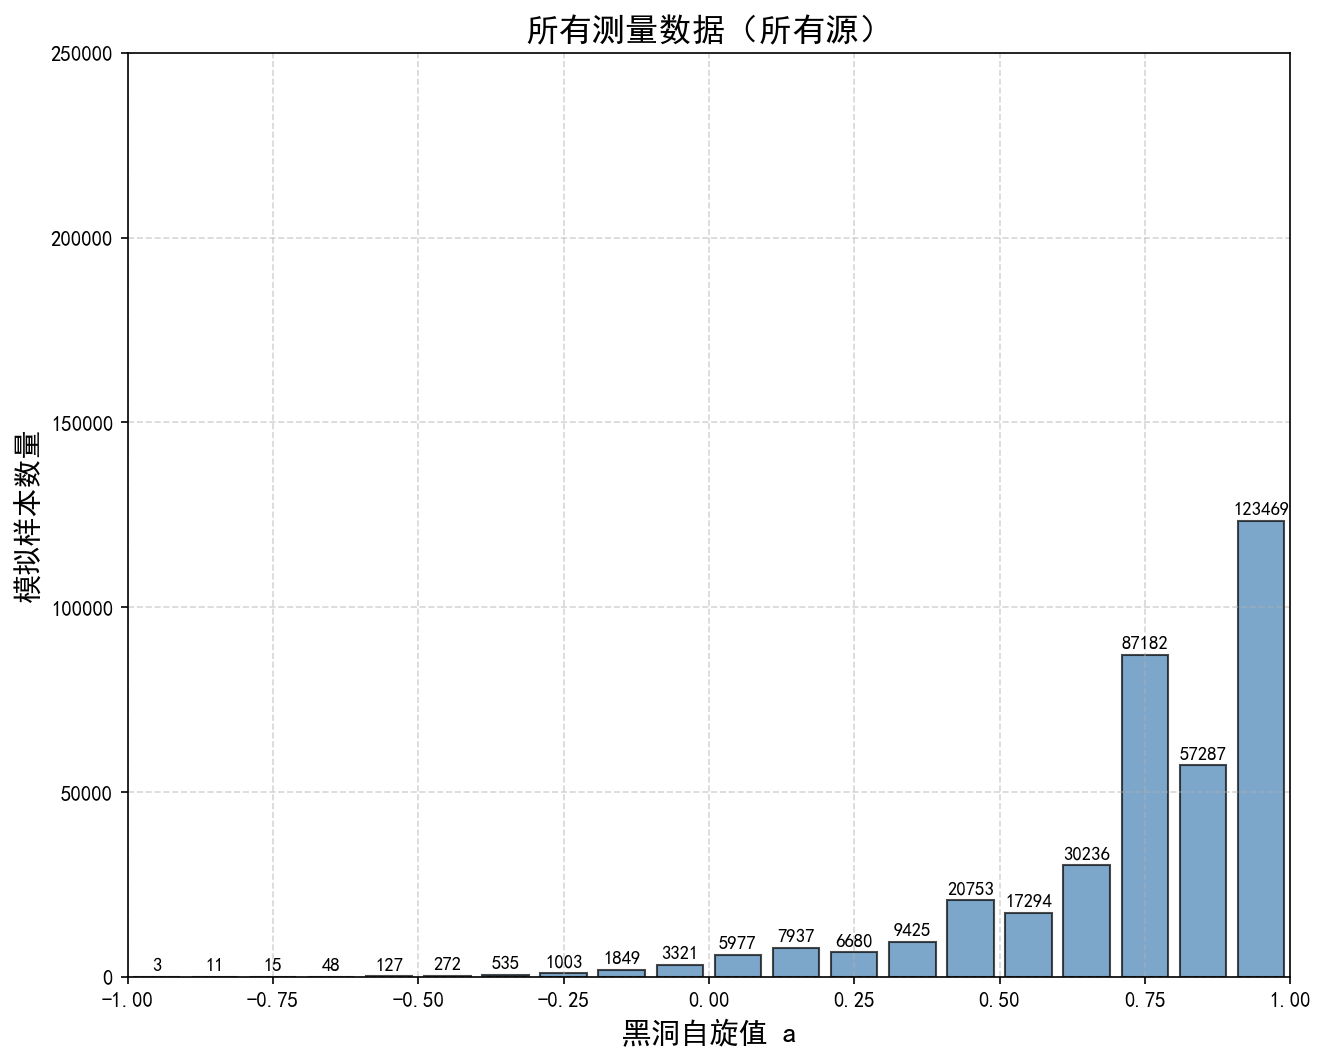
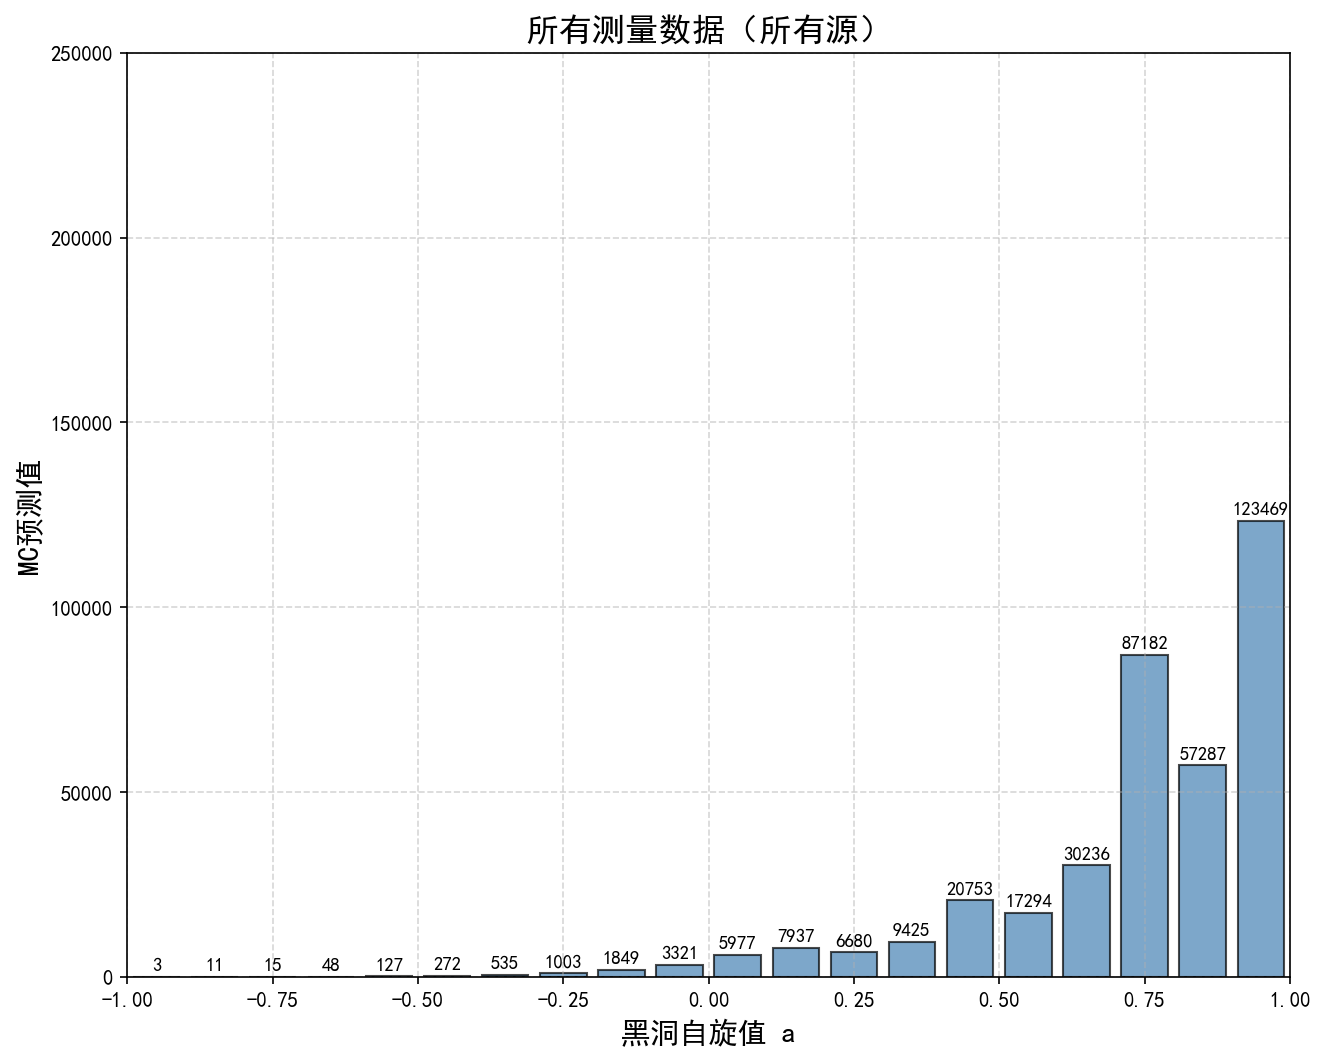
Task 3 修改y轴名称

diff --git a/任务三 蒙特卡洛模拟/scripts/source_info_table.py b/任务三 蒙特卡洛模拟/scripts/source_info_table.py
@@ -1,0 +1,148 @@
+"""
+黑洞源信息汇总表 - 最终版
+功能：读取数据表格，生成每个源在不同模型下的自旋值汇总表
+"""
+
+import pandas as pd
+import matplotlib.pyplot as plt
+from pathlib import Path
+
+# ==================== 设置中文字体 ====================
+plt.rcParams['font.sans-serif'] = ['SimHei', 'Microsoft YaHei', 'DejaVu Sans']
+plt.rcParams['axes.unicode_minus'] = False
+
+# ==================== 路径设置 ====================
+SCRIPT_DIR = Path(__file__).parent
+PROJECT_ROOT = SCRIPT_DIR.parent.parent
+DATA_PATH = PROJECT_ROOT / 'data' / '数据收集 表3 蒙特卡洛模拟用.xlsx'
+OUTPUT_DIR = SCRIPT_DIR.parent / 'output'
+
+print(f"数据文件路径: {DATA_PATH}")
+print(f"数据文件存在: {DATA_PATH.exists()}")
+print(f"输出目录: {OUTPUT_DIR}\n")
+
+# ==================== 读取数据 ====================
+df = pd.read_excel(DATA_PATH, sheet_name='Sheet1', usecols='B:I')
+df.columns = ['源', '文献来源', '自旋值i', '自旋值i-', '自旋值i+', '置信度_sigma', '拟合模型', '爆发时间']
+df = df.dropna(subset=['自旋值i'])
+
+print(f"成功读取数据，共 {len(df)} 条记录")
+
+# ==================== 格式化自旋值字符串 ====================
+def format_spin_value(row):
+    spin = row['自旋值i']
+    err_minus = row['自旋值i-']
+    err_plus = row['自旋值i+']
+    
+    if abs(spin) < 0.1:
+        decimal_places = 4
+    elif abs(spin) < 1:
+        decimal_places = 3
+    else:
+        decimal_places = 2
+    
+    spin_str = f"{spin:.{decimal_places}f}"
+    err_plus_str = f"{err_plus:.{decimal_places}f}"
+    err_minus_str = f"{err_minus:.{decimal_places}f}"
+    
+    return f"{spin_str} (+{err_plus_str}) (-{err_minus_str})"
+
+df['formatted_spin'] = df.apply(format_spin_value, axis=1)
+
+# ==================== 按源和模型汇总 ====================
+sources = sorted(df['源'].unique())
+models = ['reflection', 'continuum-fitting']
+model_names = {'reflection': 'Reflection 模型', 'continuum-fitting': 'Continuum-fitting 模型'}
+
+# 构建表格数据
+table_data = []
+row_heights = []
+
+for src in sources:
+    src_df = df[df['源'] == src]
+    
+    for model in models:
+        model_df = src_df[src_df['拟合模型'] == model]
+        if len(model_df) > 0:
+            spin_values = '\n'.join(model_df['formatted_spin'].tolist())
+            line_count = len(model_df['formatted_spin'].tolist())
+        else:
+            spin_values = '-'
+            line_count = 1
+        
+        table_data.append([src, model_names[model], spin_values])
+        # 行高：基础0.4 + 每多一行增加0.25
+        row_heights.append(0.4 + (line_count - 1) * 0.25)
+
+# ==================== 计算总高度 ====================
+total_height = sum(row_heights) + 0.8
+
+# ==================== 创建图形 ====================
+fig, ax = plt.subplots(figsize=(14, max(6, total_height)))
+ax.axis('off')
+
+# 创建表格（不合并单元格，通过修改文字来实现合并效果）
+table = ax.table(
+    cellText=table_data,
+    colLabels=['源名称', '模型', '自旋值测量结果'],
+    cellLoc='center',
+    loc='center',
+    colWidths=[0.22, 0.24, 0.54]
+)
+
+# 设置表格样式
+table.auto_set_font_size(False)
+table.set_fontsize(9)
+table.scale(1.2, 1.2)
+
+# 表头样式
+for i in range(3):
+    table[(0, i)].set_facecolor('#4472C4')
+    table[(0, i)].set_text_props(color='white', fontweight='bold', fontsize=10)
+    table[(0, i)].set_edgecolor('#CCCCCC')
+
+# 设置所有数据单元格样式
+for i in range(1, len(table_data) + 1):
+    for j in range(3):
+        table[(i, j)].set_facecolor('#FFFFFF')
+        table[(i, j)].set_edgecolor('#CCCCCC')
+        if j == 2:
+            table[(i, j)].set_text_props(ha='left', va='top')
+        else:
+            table[(i, j)].set_text_props(ha='center', va='center')
+    
+    # 设置行高
+    table[(i, 0)].set_height(row_heights[i-1])
+    table[(i, 1)].set_height(row_heights[i-1])
+    table[(i, 2)].set_height(row_heights[i-1])
+
+# ==================== 合并源名称列（通过清空重复单元格的文字） ====================
+current_src = None
+for i in range(1, len(table_data) + 1):
+    src = table_data[i-1][0]
+    if src == current_src:
+        # 清空重复的源名称文字
+        table[(i, 0)].get_text().set_text('')
+        # 设置这些单元格的垂直对齐为居中，并隐藏边框
+        table[(i, 0)].set_facecolor('#FFFFFF')
+        # 设置该单元格的边距
+        table[(i, 0)].set_text_props(ha='center', va='center')
+    else:
+        current_src = src
+        # 第一行的源名称设置垂直居中
+        table[(i, 0)].set_text_props(ha='center', va='center')
+
+# 设置标题
+plt.title('各黑洞源自旋值测量结果汇总表', fontsize=16, fontweight='bold', pad=20)
+
+# 调整布局
+plt.tight_layout()
+
+# 保存图片
+save_path = OUTPUT_DIR / 'source_info_table.png'
+plt.savefig(save_path, dpi=150, bbox_inches='tight', facecolor='white')
+print(f"表格图片已保存: {save_path}")
+
+# 不显示窗口，直接关闭
+plt.close()
+print("\n表格生成完成！请查看 output 文件夹中的 source_info_table.png")

diff --git a/任务三 蒙特卡洛模拟/scripts/monte_carlo_simulation.py b/任务三 蒙特卡洛模拟/scripts/monte_carlo_simulation.py
@@ -155,9 +155,9 @@ def plot_single_hist(samples, title, filename):
     plt.figure(figsize=(10, 8))
     bars = plt.bar(bin_centers, counts, width=0.08, edgecolor='black', alpha=0.7, color='steelblue')
     plt.xlim(-1, 1)
-    plt.ylim(0, Y_LIMIT)  # 统一纵坐标范围
+    plt.ylim(0, Y_LIMIT)
     plt.xlabel('黑洞自旋值 a', fontsize=14)
-    plt.ylabel('模拟样本数量', fontsize=14)
+    plt.ylabel('MC预测值', fontsize=14)  # 修改为"MC预测值"
     plt.title(title, fontsize=16)
     plt.grid(True, linestyle='--', alpha=0.5)
     
@@ -169,7 +169,7 @@ def plot_single_hist(samples, title, filename):
     
     save_path = OUTPUT_DIR / filename
     plt.savefig(save_path, dpi=150, bbox_inches='tight')
-    plt.close()  # 关闭当前图形
+    plt.close()
     print(f"图片已保存: {save_path}")
 
 # 生成三张独立图片（每张只有一个柱状图，纵坐标统一）
@@ -177,7 +177,7 @@ plot_single_hist(samples_all, '所有测量数据（所有源）', 'spin_distrib
 plot_single_hist(samples_cf, '仅 Continuum-fitting 模型', 'spin_distribution_cf.png')
 plot_single_hist(samples_ref, '仅 Reflection 模型', 'spin_distribution_ref.png')
 
-# 生成三图并排的对比图（纵坐标也统一）
+# 生成三图并排的对比图
 fig, axes = plt.subplots(1, 3, figsize=(18, 6))
 
 def plot_on_ax(samples, title, ax):
@@ -186,9 +186,9 @@ def plot_on_ax(samples, title, ax):
     bin_centers = (BINS[:-1] + BINS[1:]) / 2
     ax.bar(bin_centers, counts, width=0.08, edgecolor='black', alpha=0.7, color='steelblue')
     ax.set_xlim(-1, 1)
-    ax.set_ylim(0, Y_LIMIT)  # 统一纵坐标范围
+    ax.set_ylim(0, Y_LIMIT)
     ax.set_xlabel('黑洞自旋值 a', fontsize=12)
-    ax.set_ylabel('模拟样本数量', fontsize=12)
+    ax.set_ylabel('MC预测值', fontsize=12)  # 修改为"MC预测值"
     ax.set_title(title, fontsize=14)
     ax.grid(True, linestyle='--', alpha=0.5)
     
@@ -204,7 +204,7 @@ plot_on_ax(samples_ref, 'Reflection 模型', axes[2])
 
 plt.tight_layout()
 plt.savefig(OUTPUT_DIR / 'spin_distribution_combined.png', dpi=150, bbox_inches='tight')
-plt.close()  # 关闭组合图
+plt.close()
 print(f"图片已保存: {OUTPUT_DIR / 'spin_distribution_combined.png'}")
 
 print(f"\n所有图片已保存到: {OUTPUT_DIR}")
